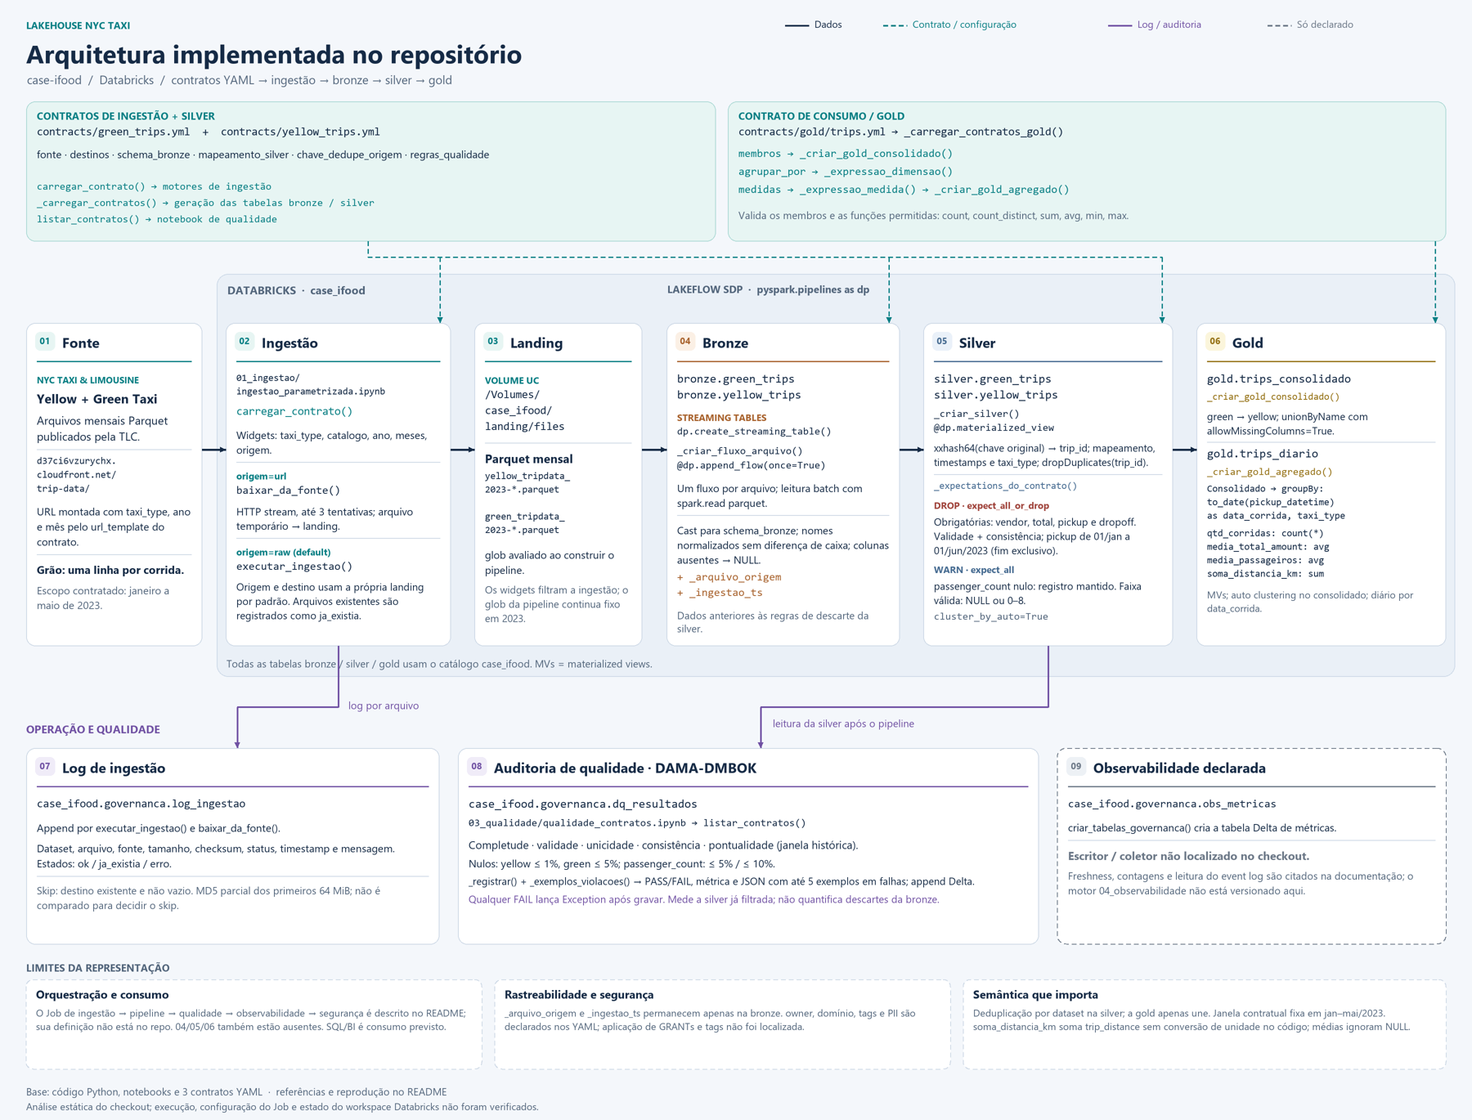
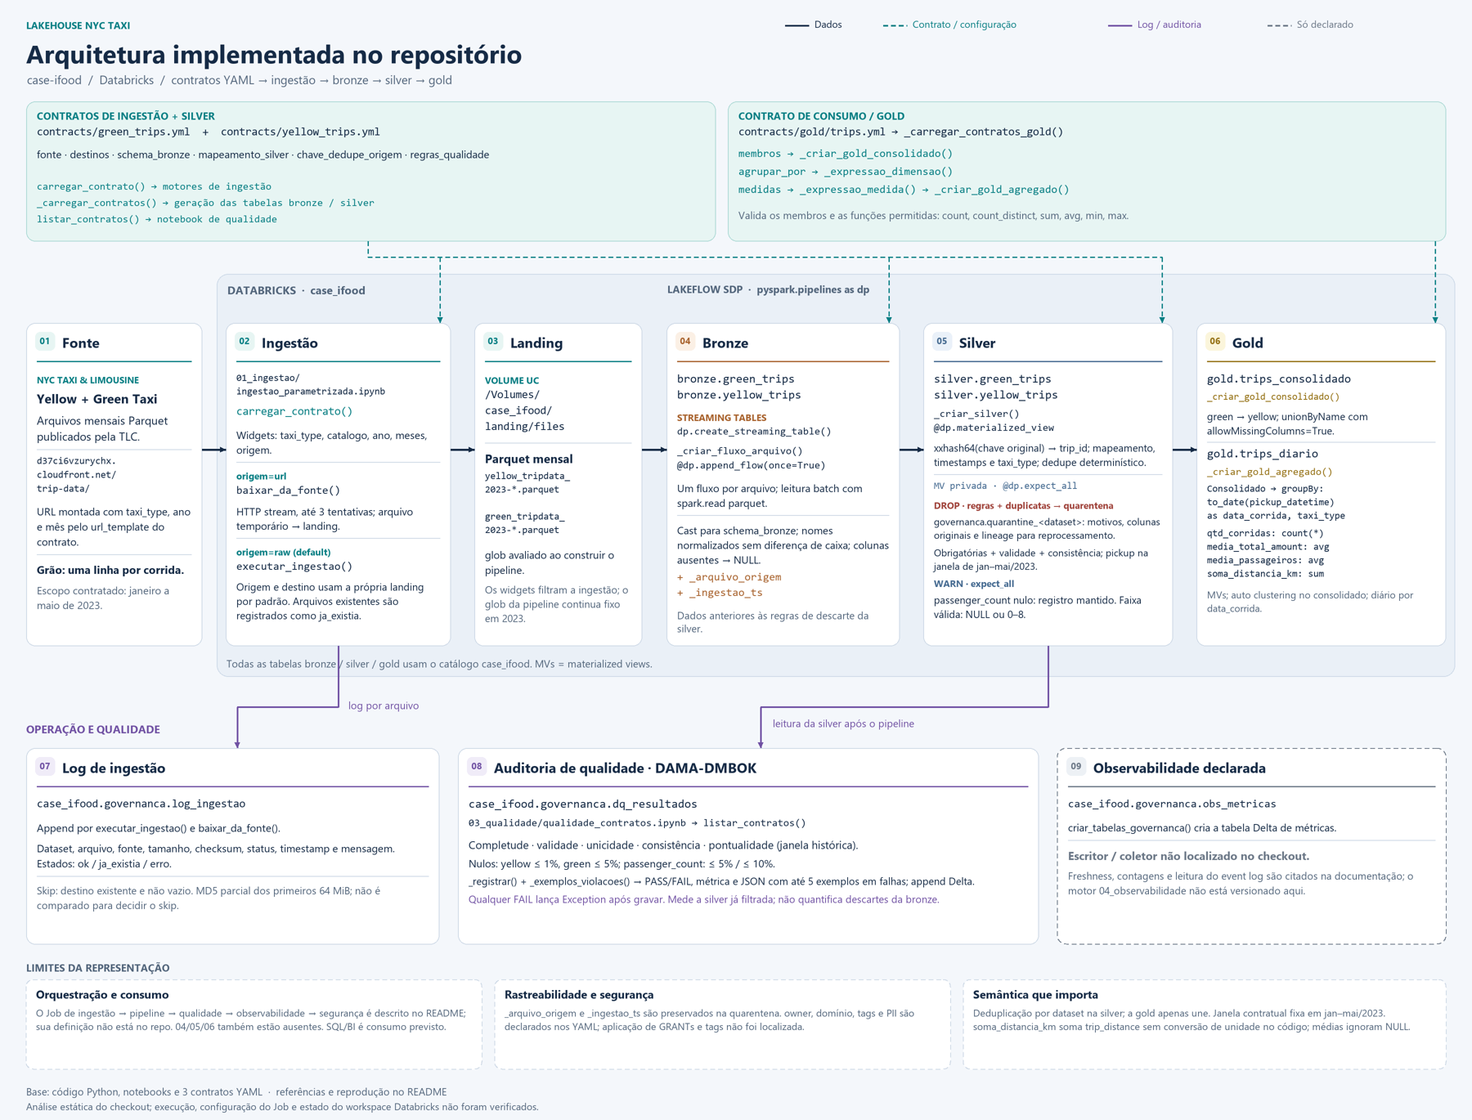
feat: add contract-driven quarantine for rejected taxi trips

Changed region(s): [[0.6222, 0.3985, 0.7778, 0.5518], [0.4356, 0.8891, 0.6222, 0.9197]]

diff --git a/02_pipelines/pipeline_case_ifood.py b/02_pipelines/pipeline_case_ifood.py
@@ -10,6 +10,7 @@ import os
 import yaml
 from pyspark import pipelines as dp
 from pyspark.sql import functions as F
+from pyspark.sql.window import Window
 
 CONTRACTS_DIR = "/Workspace/Users/alexvalsechibosque@gmail.com/case_ifood/contracts"
 
@@ -40,6 +41,57 @@ def _expectations_do_contrato(contrato):
     if "passenger_count" in contrato["colunas_obrigatorias"]:
         warns["obrigatoria_passenger_count"] = "passenger_count IS NOT NULL"
     return drops, warns
+
+
+def _mapear_para_silver(df, mapeamento, chave, taxi_type):
+    """Normaliza Bronze e conserva as colunas da origem para a quarentena."""
+    colunas_origem = [
+        F.col(c).alias(f"_orig_{c}")
+        for c in df.columns
+        if c not in ("_arquivo_origem", "_ingestao_ts")
+    ]
+    df = (
+        df.withColumn("trip_id", F.xxhash64(*[F.col(c).cast("string") for c in chave]))
+        .withColumn("taxi_type", F.lit(taxi_type))
+    )
+    selecionadas = []
+    for padrao, origem in mapeamento.items():
+        origens = origem if isinstance(origem, list) else [origem]
+        expressao = F.col(origens[0]) if len(origens) == 1 else F.coalesce(
+            *[F.col(o) for o in origens]
+        )
+        if "datetime" in padrao.lower():
+            expressao = expressao.cast("timestamp")
+        selecionadas.append(expressao.alias(padrao))
+    return df.select(
+        *selecionadas,
+        F.col("trip_id"),
+        F.col("taxi_type"),
+        *colunas_origem,
+        F.col("_arquivo_origem"),
+        F.col("_ingestao_ts"),
+    )
+
+
+def _com_motivos_rejeicao(df, regras_drop):
+    """Adiciona os nomes das regras DROP que cada linha viola."""
+    motivos = [
+        F.when(
+            ~F.coalesce(F.expr(expressao), F.lit(False)),
+            F.lit(nome),
+        )
+        for nome, expressao in regras_drop.items()
+    ]
+    return df.withColumn(
+        "motivos_rejeicao",
+        F.filter(F.array(*motivos), lambda motivo: motivo.isNotNull()),
+    )
+
+
+def _ordenar_deterministicamente_por_trip_id(df):
+    """Mantém a mesma linha em Silver e na classificação de duplicatas."""
+    ordem = [F.col(c).asc_nulls_last() for c in sorted(df.columns) if c != "trip_id"]
+    return F.row_number().over(Window.partitionBy("trip_id").orderBy(*ordem))
 
 
 # ---------------------------------------------------------------- bronze -----
@@ -100,54 +152,80 @@ for _contrato in CONTRATOS:
         )
 
 # ---------------------------------------------------------------- silver -----
-# Materialized view por dataset: mapeia colunas do contrato, gera trip_id
-# (hash da chave de dedupe), deduplica e aplica expectations do contrato.
+# Materialized views por dataset: Silver mantém dados conformes; quarentena
+# preserva linhas rejeitadas por regra e duplicatas removidas da Silver.
 for _contrato in CONTRATOS:
     _dataset = _contrato["dataset"]
     _nome_bronze = _contrato["destinos"]["bronze"]
     _nome_silver = _contrato["destinos"]["silver"]
+    _nome_quarentena = _contrato["destinos"]["quarentena"]
+    _nome_validacao = f"_{_dataset}_validacao"
     _mapeamento = _contrato["mapeamento_silver"]
     _chave = _contrato["chave_dedupe_origem"]
     _taxi_type = _contrato["taxi_type"]
     _drops, _warns = _expectations_do_contrato(_contrato)
     _comentario = _contrato["descricao"].strip()
 
-    def _criar_silver(contrato, nome_bronze, nome_silver, mapeamento, chave,
-                      taxi_type, drops, warns, comentario):
+    def _criar_silver_e_quarentena(nome_bronze, nome_silver, nome_quarentena,
+                                   nome_validacao, mapeamento, chave, taxi_type,
+                                   drops, warns, comentario):
+        @dp.materialized_view(
+            name=nome_validacao,
+            private=True,
+            comment=f"[privada] {comentario} Avalia regras do contrato e marca violações.",
+        )
+        @dp.expect_all(drops)
+        @dp.expect_all(warns)
+        def validacao():
+            return _com_motivos_rejeicao(
+                _mapear_para_silver(
+                    spark.read.table(nome_bronze), mapeamento, chave, taxi_type
+                ),
+                drops,
+            )
+
         @dp.materialized_view(
             name=nome_silver,
-            comment=f"[silver] {comentario} Deduplicado por trip_id; expectations do contrato.",
+            comment=f"[silver] {comentario} Conforme ao contrato e deduplicado por trip_id.",
             cluster_by_auto=True,
         )
-        @dp.expect_all_or_drop(drops)
-        @dp.expect_all(warns)
         def silver():
-            df = spark.read.table(nome_bronze)
-            # trip_id calculado sobre as colunas ORIGINAIS (antes do mapeamento)
-            hash_cols = [F.col(c).cast("string") for c in chave]
-            df = (
-                df.withColumn("trip_id", F.xxhash64(*hash_cols))
-                .withColumn("taxi_type", F.lit(taxi_type))
-            )
-            selecionadas = []
-            for padrao, origem in mapeamento.items():
-                origens = origem if isinstance(origem, list) else [origem]
-                if len(origens) == 1:
-                    expressao = F.col(origens[0])
-                else:
-                    expressao = F.coalesce(*[F.col(o) for o in origens])
-                if "datetime" in padrao.lower():
-                    expressao = expressao.cast("timestamp")
-                selecionadas.append(expressao.alias(padrao))
+            df = spark.read.table(nome_validacao).filter(F.size("motivos_rejeicao") == 0)
+            # A ordenação torna explícito qual duplicata permanece, e permite
+            # que a outra seja registrada na tabela de quarentena.
             return (
-                df.select(*selecionadas, F.col("trip_id"), F.col("taxi_type"))
-                .dropDuplicates(["trip_id"])
+                df.withColumn("_ordem_trip_id", _ordenar_deterministicamente_por_trip_id(df))
+                .filter(F.col("_ordem_trip_id") == 1)
+                .drop("_ordem_trip_id", "_arquivo_origem", "_ingestao_ts")
+                .select(*mapeamento.keys(), "trip_id", "taxi_type")
             )
 
-        return silver
+        @dp.materialized_view(
+            name=nome_quarentena,
+            comment=f"[quarentena] {comentario} Linhas rejeitadas e duplicatas da Silver.",
+            cluster_by_auto=True,
+        )
+        def quarentena():
+            df = spark.read.table(nome_validacao)
+            rejeitadas = df.filter(F.size("motivos_rejeicao") > 0)
+            conformes = df.filter(F.size("motivos_rejeicao") == 0)
 
-    _criar_silver(_contrato, _nome_bronze, _nome_silver, _mapeamento, _chave,
-                  _taxi_type, _drops, _warns, _comentario)
+            duplicadas = (
+                conformes
+                .withColumn("_ordem_trip_id", _ordenar_deterministicamente_por_trip_id(conformes))
+                .filter(F.col("_ordem_trip_id") > 1)
+                .withColumn("motivos_rejeicao", F.array(F.lit("duplicidade_trip_id")))
+                .drop("_ordem_trip_id")
+            )
+            return (
+                rejeitadas.unionByName(duplicadas)
+                .withColumn("quarentena_ts", F.current_timestamp())
+            )
+
+    _criar_silver_e_quarentena(
+        _nome_bronze, _nome_silver, _nome_quarentena, _nome_validacao,
+        _mapeamento, _chave, _taxi_type, _drops, _warns, _comentario,
+    )
 
 # ------------------------------------------------------------------ gold -----
 # Visões de consumo geradas a partir dos contratos de gold em contracts/gold/:

diff --git a/docs/arquitetura/gerar_diagrama.py b/docs/arquitetura/gerar_diagrama.py
@@ -265,14 +265,14 @@ def create():
     silver = Card(c,2258,790,610,790,"05","Silver",C["silver"],C["silver_bg"])
     silver.p("silver.green_trips\nsilver.yellow_trips",29,style="mono",line=39,gap=9)
     silver.p("_criar_silver()\n@dp.materialized_view",25,style="mono",line=34,gap=9)
-    silver.p("xxhash64(chave original) → trip_id; mapeamento, timestamps e taxi_type; dropDuplicates(trip_id).",25,line=35,gap=12)
+    silver.p("xxhash64(chave original) → trip_id; mapeamento, timestamps e taxi_type; dedupe determinístico.",25,line=35,gap=12)
     silver.rule()
-    silver.p("_expectations_do_contrato()",24,C["silver"],"mono",line=33,gap=9)
-    silver.label("DROP · expect_all_or_drop",C["red"],23)
-    silver.p("Obrigatórias: vendor, total, pickup e dropoff. Validade + consistência; pickup de 01/jan a 01/jun/2023 (fim exclusivo).",25,line=35,gap=13)
+    silver.p("MV privada · @dp.expect_all",24,C["silver"],"mono",line=33,gap=9)
+    silver.label("DROP · regras + duplicatas → quarentena",C["red"],23)
+    silver.p("governanca.quarantine_<dataset>: motivos, colunas originais e lineage para reprocessamento.",24,line=33,gap=10)
+    silver.p("Obrigatórias + validade + consistência; pickup na janela de jan–mai/2023.",24,line=33,gap=10)
     silver.label("WARN · expect_all",C["silver"],23)
     silver.p("passenger_count nulo: registro mantido. Faixa válida: NULL ou 0–8.",25,line=35,gap=11)
-    silver.p("cluster_by_auto=True",25,C["muted"],"mono",line=34)
 
     gc = Card(c,2926,790,610,790,"06","Gold",C["gold"],C["gold_bg"])
     gc.p("gold.trips_consolidado",29,style="mono",line=39,gap=7)
@@ -322,7 +322,7 @@ def create():
     c.text(64,2350,"LIMITES DA REPRESENTAÇÃO",25,C["muted"],"bold")
     notes = [
         (64,1114,"Orquestração e consumo", "O Job de ingestão → pipeline → qualidade → observabilidade → segurança é descrito no README; sua definição não está no repo. 04/05/06 também estão ausentes. SQL/BI é consumo previsto."),
-        (1210,1114,"Rastreabilidade e segurança", "_arquivo_origem e _ingestao_ts permanecem apenas na bronze. owner, domínio, tags e PII são declarados nos YAML; aplicação de GRANTs e tags não foi localizada."),
+        (1210,1114,"Rastreabilidade e segurança", "_arquivo_origem e _ingestao_ts são preservados na quarentena. owner, domínio, tags e PII são declarados nos YAML; aplicação de GRANTs e tags não foi localizada."),
         (2356,1180,"Semântica que importa", "Deduplicação por dataset na silver; a gold apenas une. Janela contratual fixa em jan–mai/2023. soma_distancia_km soma trip_distance sem conversão de unidade no código; médias ignoram NULL."),
     ]
     for x,w,title,body in notes:

diff --git a/README.md b/README.md
@@ -19,8 +19,8 @@ O diagrama foi reconstruído a partir do código e dos contratos deste checkout.
 | Caminho `raw` | `executar_ingestao()` aceita volumes de origem e destino, mas o notebook não os fornece: ambos assumem `fonte.volume`. Portanto, a chamada padrão reconhece arquivos já presentes na landing e registra `ja_existia`; não estabelece uma segunda zona raw. O critério real de skip é destino existente com tamanho maior que zero. |
 | Contratos dos datasets | [`contracts/green_trips.yml`](contracts/green_trips.yml) e [`contracts/yellow_trips.yml`](contracts/yellow_trips.yml): fonte, glob, schema canônico, nomes de destino, chave de deduplicação, mapeamento e regras. O pipeline tem seu próprio carregador `_carregar_contratos()`; o motor de ingestão e o notebook de qualidade usam os carregadores de `motores.py`. |
 | Landing → bronze | [`02_pipelines/pipeline_case_ifood.py`](02_pipelines/pipeline_case_ifood.py): `dp.create_streaming_table()` + `_criar_fluxo_arquivo()` com `@dp.append_flow(once=True)`, um fluxo por arquivo encontrado pelo glob durante a construção do pipeline. A leitura de cada Parquet é batch via `spark.read`; aplica casts para `schema_bronze`, normalização de caixa, NULL para colunas ausentes e adiciona `_arquivo_origem` e `_ingestao_ts`. |
-| Bronze → silver | `_criar_silver()` cria materialized views com clustering automático. Calcula `trip_id = xxhash64(...)` sobre as colunas originais, convertidas para string: `VendorID`, pickup, dropoff, `PULocationID`, `DOLocationID` (timestamps `lpep_*` no green e `tpep_*` no yellow). Aplica `mapeamento_silver`, cast de nomes contendo `datetime`, `taxi_type` e `dropDuplicates(["trip_id"])`. |
-| Qualidade durante a transformação | `_expectations_do_contrato()` deriva `@dp.expect_all_or_drop` de validade, consistência e obrigatoriedade dos campos, exceto `passenger_count`. Este recebe `@dp.expect_all` para nulos (warn, registro mantido). Validade de passageiros aceita NULL ou faixa 0–8. Linhas rejeitadas continuam disponíveis na bronze; não há tabela de quarentena no código. |
+| Bronze → silver e quarentena | `_criar_silver_e_quarentena()` cria uma MV privada de validação e duas saídas públicas. Calcula `trip_id = xxhash64(...)` sobre a chave original, aplica `mapeamento_silver` e escolhe deterministicamente uma linha válida por `trip_id`. |
+| Qualidade durante a transformação | `_expectations_do_contrato()` aplica `expect_all` na MV privada para manter as métricas de violações no event log; as mesmas regras classificam as linhas em `motivos_rejeicao`. Silver recebe só linhas válidas. Registros inválidos e duplicatas válidas excedentes vão para `case_ifood.governanca.quarantine_<dataset>`, com colunas originais prefixadas `_orig_`, campos mapeados, `_arquivo_origem`, `_ingestao_ts`, `taxi_type`, `trip_id` e `quarentena_ts`. `passenger_count` nulo é WARN e continua na Silver, não na quarentena. |
 | Silver → gold | [`contracts/gold/trips.yml`](contracts/gold/trips.yml) → `_carregar_contratos_gold()` valida membros e funções; `_criar_gold_consolidado()` lê green e depois yellow e aplica `unionByName(allowMissingColumns=True)`. Gera `case_ifood.gold.trips_consolidado` como MV com clustering automático. A união não aplica deduplicação global. |
 | Agregado diário | `_expressao_dimensao()`, `_expressao_medida()` e `_criar_gold_agregado()` geram `case_ifood.gold.trips_diario` a partir do consolidado: `to_date(pickup_datetime)` como `data_corrida`, `taxi_type`, `count(*)`, `avg(total_amount)`, `avg(passenger_count)` e `sum(trip_distance)`. Clustering por `data_corrida`. O alias `soma_distancia_km` é literal do contrato; não existe conversão de unidade no código. |
 | Log operacional | Os dois motores de ingestão fazem append em `case_ifood.governanca.log_ingestao`: dataset, arquivo, fonte, tamanho, checksum, status, timestamp e mensagem. `criar_tabelas_governanca()` cria as tabelas Delta de governança. |
@@ -31,8 +31,8 @@ O diagrama foi reconstruído a partir do código e dos contratos deste checkout.
 
 - O Job `case_ifood_ingestao_orquestrador` e a sequência ingestão → pipeline → qualidade → observabilidade → segurança são descritos abaixo, mas a definição do Job não está versionada. Os diretórios `04_observabilidade`, `05_seguranca` e `06_analises` citados na estrutura também não estão presentes neste checkout. A imagem distingue essas referências da implementação verificável.
 - Os glob dos contratos selecionam arquivos de **2023** e a validade do pickup está fixada em **2023-01-01 ≤ pickup < 2023-06-01**. Alterar `ano` ou `meses` no notebook de ingestão não modifica essas regras do pipeline. A dimensão de pontualidade testa essa janela histórica, não freshness operacional.
-- A auditoria lê a **silver após os descartes**; PASS não informa a quantidade de linhas rejeitadas da bronze. Não existe regra explícita de volume mínimo e o percentual de nulos é zero quando a tabela está vazia. Filtros SQL `NOT(expressão)` não contam resultados NULL como violações; completude é avaliada separadamente para as colunas configuradas.
-- `_arquivo_origem` e `_ingestao_ts` não são selecionados pela silver e não chegam à gold. O código demonstra rastreabilidade de arquivo na bronze e dependências entre tabelas, sem comprovar captura de linhagem nativa no ambiente nem rastreabilidade por registro até o consumo.
+- A auditoria lê a **silver após a quarentena**; PASS não inclui a quantidade de rejeições, que deve ser consultada em `case_ifood.governanca.quarantine_<dataset>` ou nas métricas do event log. Não existe regra explícita de volume mínimo e o percentual de nulos é zero quando a tabela está vazia. Filtros SQL `NOT(expressão)` não contam resultados NULL como violações; completude é avaliada separadamente para as colunas configuradas.
+- `_arquivo_origem` e `_ingestao_ts` não são selecionados pela silver e não chegam à gold; linhas rejeitadas os preservam na quarentena. Linhas conformes ainda não carregam essa linhagem até o consumo, e a execução não comprova a configuração de lineage nativa no workspace.
 - No arquivo de qualidade versionado, a célula 0 contém texto Markdown, mas está marcada como `code`, sem `%md`. Esse conteúdo não é Python válido. A imagem representa a lógica das células 1 e 2; a execução integral desse notebook, como exportado, requer corrigir o tipo da célula inicial. Nenhum notebook foi alterado para produzir o diagrama.
 
 Para reproduzir a imagem localmente, com **Pillow** e **PyYAML** instalados:
@@ -70,12 +70,13 @@ case_ifood/
 | `case_ifood.bronze` | Dados brutos como chegaram + metadados de ingestão |
 | `case_ifood.silver` | Dados limpos, tipados, deduplicados, colunas obrigatórias |
 | `case_ifood.gold` | Camada de consumo (SQL/BI) |
-| `case_ifood.governanca` | Qualidade (`dq_resultados`), observabilidade (`obs_metricas`), log de ingestão (`log_ingestao`) |
+| `case_ifood.governanca` | Qualidade (`dq_resultados`), observabilidade (`obs_metricas`), log de ingestão (`log_ingestao`) e quarentena (`quarantine_yellow_trips`, `quarantine_green_trips`) |
 
 ## Modelo de dados (medallion)
 
 - **bronze.yellow_trips / bronze.green_trips** — streaming tables alimentadas pelo volume landing, com colunas de metadados (`_arquivo_origem`, `_ingestao_timestamp`, `_taxi_type`).
-- **silver.yellow_trips / silver.green_trips** — dedupe pela chave do contrato, tipos corretos, colunas obrigatórias do case: `VendorID`, `passenger_count`, `total_amount`, `tpep_pickup_datetime`, `tpep_dropoff_datetime` (green: equivalentes `lpep_*`).
+- **silver.yellow_trips / silver.green_trips** — apenas registros válidos pelas regras DROP do contrato, deduplicados pela chave e mapeados para nomes padronizados. `passenger_count` nulo é aviso e permanece.
+- **governanca.quarantine_yellow_trips / quarantine_green_trips** — linhas que falham regras DROP e duplicatas removidas da Silver, com motivo(s), colunas da Bronze prefixadas `_orig_`, arquivo de origem, timestamp de ingestão e timestamp de quarentena. Reprocessamento deve partir da Bronze após a correção da regra ou do dado.
 - **gold.trips_consolidado** — união yellow + green com `taxi_type` (consumo analítico) e **gold.trips_diario** — agregado diário.
 
 ## Dicionário de colunas (camada de consumo)

diff --git a/SDD.md b/SDD.md
@@ -36,14 +36,14 @@ Referências vivas: `contracts/yellow_trips.yml` e `contracts/green_trips.yml`. 
 | `fonte.volume` | Volume UC de landing | Hoje `/Volumes/case_ifood/landing/files` |
 | `fonte.glob` | Padrão de arquivos a ingerir | Ex.: `yellow_tripdata_2023-*.parquet`; um append flow por arquivo casado |
 | `fonte.formato` | Formato de leitura | `parquet` (único suportado no motor atual) |
-| `destinos.bronze` / `destinos.silver` | Nomes completos das tabelas geradas | `case_ifood.bronze.<dataset>` / `case_ifood.silver.<dataset>` |
+| `destinos.bronze` / `destinos.silver` / `destinos.quarentena` | Nomes completos das tabelas geradas | `case_ifood.bronze.<dataset>` / `case_ifood.silver.<dataset>` / `case_ifood.governanca.quarantine_<dataset>` |
 | `chave_dedupe_origem` | Colunas ORIGINAIS (nomes da bronze) que formam a chave de dedupe | Viram o hash `trip_id` (xxhash64) na silver |
 | `mapeamento_silver` | Dicionário `nome_silver -> coluna_bronze` (ou lista, para coalesce) | Colunas fora do mapa são descartadas; nomes contendo `datetime` recebem cast automático para timestamp |
 | `schema_bronze` | Dicionário `coluna -> tipo Spark` | Cada arquivo é lido com o próprio schema físico e normalizado via cast (int/bigint/double e capitalização variam entre arquivos mensais) |
-| `colunas_obrigatorias` | Colunas de consumo exigidas | Viram expectations `IS NOT NULL` (drop), exceto `passenger_count` (warn) |
-| `regras_qualidade.validade` | Lista `{coluna, expressao}` | Expressões SQL avaliadas sobre nomes **SILVER** (pós-mapeamento); falha = linha descartada da silver (fica na bronze) |
-| `regras_qualidade.consistencia` | Lista de expressões | Idem validade (ex.: `dropoff_datetime >= pickup_datetime`) |
-| `regras_qualidade.completude` / `pontualidade` / `unicidade` | Documentação DAMA-DMBOK | **Ainda não enforcementadas** pelo pipeline (unicidade é garantida na prática pelo `dropDuplicates(trip_id)`); servem aos motores de qualidade/observabilidade |
+| `colunas_obrigatorias` | Colunas de consumo exigidas | `IS NOT NULL` é avaliado como regra de rejeição e enviado à quarentena, exceto `passenger_count` (warn, mantido) |
+| `regras_qualidade.validade` | Lista `{coluna, expressao}` | Expressões SQL avaliadas sobre nomes **SILVER** (pós-mapeamento); falha = linha desviada para `destinos.quarentena` e mantida na bronze |
+| `regras_qualidade.consistencia` | Lista de expressões | Idem validade (ex.: `dropoff_datetime >= pickup_datetime`); motivo é registrado em `motivos_rejeicao` |
+| `regras_qualidade.completude` / `pontualidade` / `unicidade` | Documentação DAMA-DMBOK | Completude e pontualidade são auditadas depois; a unicidade é aplicada na Silver por `trip_id`, com as duplicatas excedentes enviadas à quarentena |
 | `colunas_pii` / `tags` | Segurança e metadados | Alimentam os motores de segurança/governança |
 
 ## 3. Contrato de gold (`contracts/gold/*.yml`)
@@ -111,10 +111,11 @@ Depois: montar o YAML, **mostrar ao usuário e confirmar**, e só então executa
 
 * **Ordem de `membros` define o schema do consolidado**: hoje `[green_trips, yellow_trips]` — o layout segue o green e `airport_fee` fica por último. Mudar a ordem muda a ordem (não o conteúdo) das colunas.
 * `passenger_count` é nulo em ~2,7% das corridas (não registrado pelos motoristas) — por isso é expectation **warn**, não drop. Agregações de média o ignoram (comportamento SQL padrão).
-* Janela de validade SLA: corridas fora de `2023-01-01` a `2023-06-01` são **descartadas da silver** (permanecem na bronze) — expectativas de `pickup_datetime` nos contratos.
+* Janela de validade SLA: corridas fora de `2023-01-01` a `2023-06-01` vão para `destinos.quarentena` e permanecem na bronze — regra de `pickup_datetime` nos contratos.
 * **Expressões de `regras_qualidade` usam nomes SILVER** (pós-`mapeamento_silver`), nunca os nomes originais da fonte (ex.: `tpep_pickup_datetime` vira `pickup_datetime`).
 * Agregados leem apenas o consolidado do próprio contrato — não apontam para silver, nem para consolidado de outro contrato.
 * `mapeamento_silver` com lista = coalesce na ordem (usado para variantes de capitalização na bronze, ex.: `Airport_fee`/`airport_fee`).
+* Uma MV privada avalia `expect_all` para conservar métricas de regras no event log e adiciona `motivos_rejeicao`. Linhas rejeitadas e duplicatas válidas excedentes por `trip_id` são materializadas em `destinos.quarentena`; inclui campos Silver mapeados, campos originais da Bronze prefixados `_orig_`, `_arquivo_origem`, `_ingestao_ts` e `quarentena_ts`. WARNs, como `passenger_count` nulo, não são rejeitados. Para reprocessar após corrigir uma regra, atualize/reexecute o pipeline a partir da Bronze.
 
 ## 8. Exemplo ponta a ponta — "visão que agrupa corridas por localidade"
 
